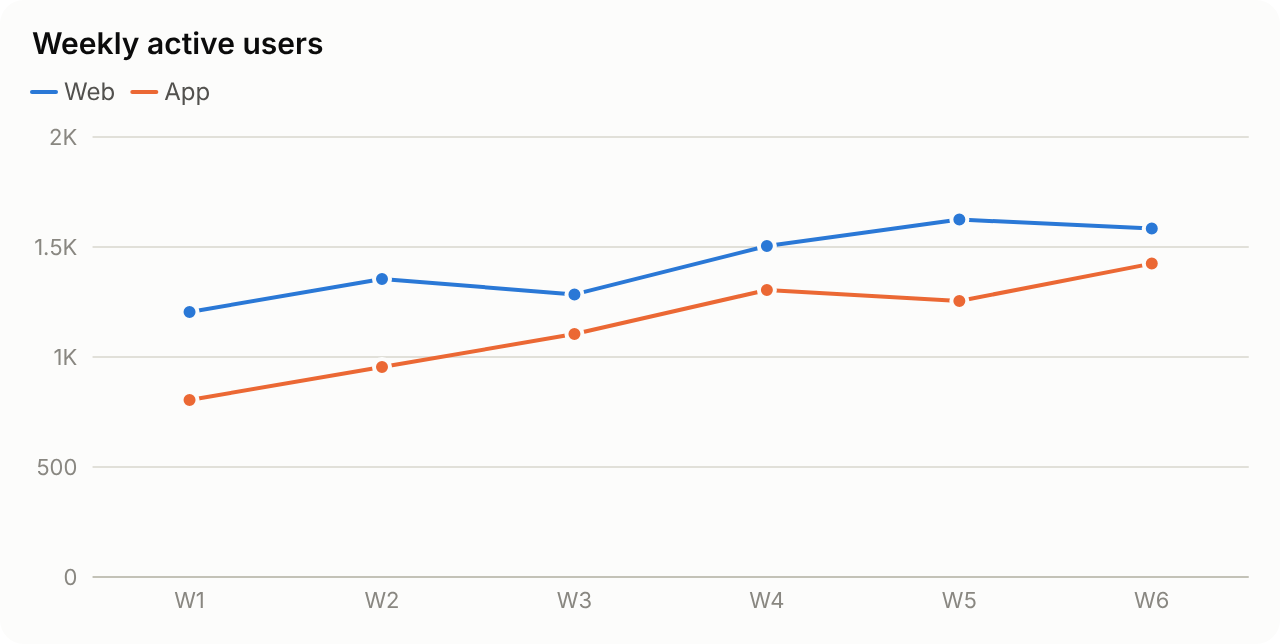
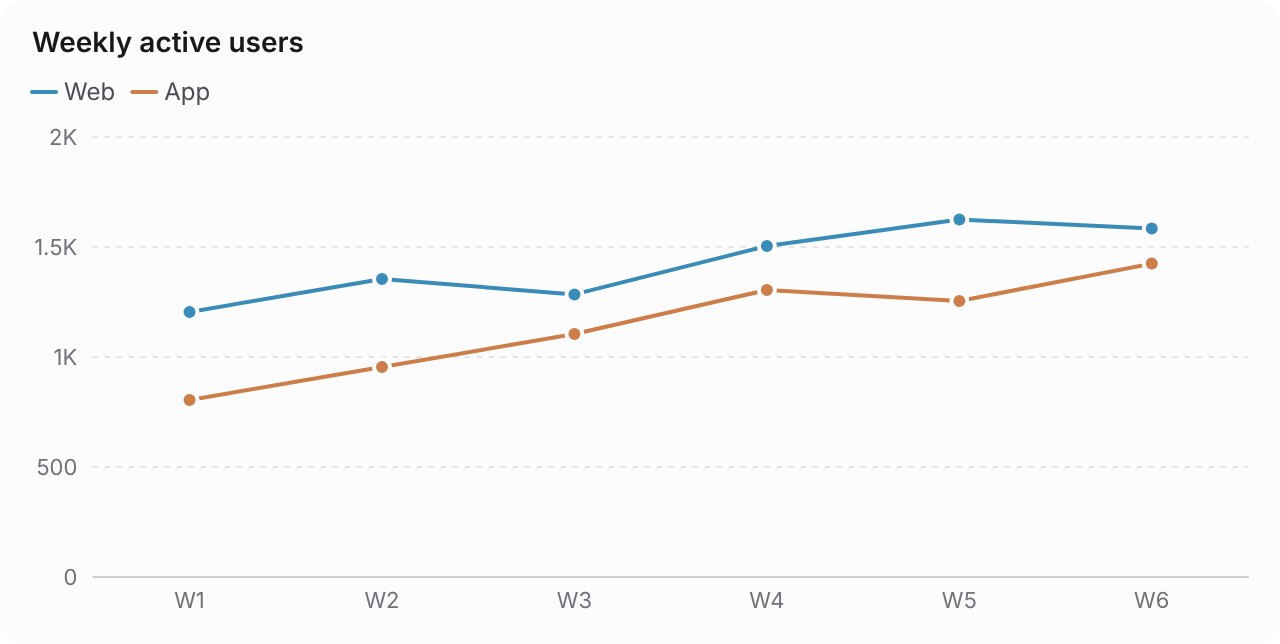
feat: 見た目を Shiki に寄せる（0.3.0）
- 系列の色を四季の色相（冬・秋・夏・紺・春・山吹・青磁・鳶）に、地と文字を青みのニュートラルに変える。
  8 色とも明暗それぞれ、色覚多様性のシミュレーションで隣り合う色の差 ΔE ≥ 8、通常の見え方で ΔE ≥ 15 を確認した
- ダークモードを <html class="dark">（Tailwind・next-themes）にも追従させる。ページの明示を OS の設定より優先する
- 数値カード・流れ図の箱・構成図の層を、塗りつぶしから枠線＋淡い地に変える
- 目盛り線を破線にし、棒グラフの凡例を丸にする。見出しを 14px にする
- フォントを --yui-font で指定できるようにし、既定のフォント指定を日本語向けに広げる

Claude-Session: https://claude.ai/code/session_01Pc6vbAmpqXP4Kfg7mjJKm3

diff --git a/packages/core/src/render/theme.ts b/packages/core/src/render/theme.ts
@@ -1,5 +1,7 @@
 /**
- * 配色。dataviz の検証済み参照パレット（カテゴリ 8 色・明暗それぞれ）を既定にする。
+ * 配色。地と文字は青みのあるニュートラル、系列は四季の色相（冬・秋・夏・紺・春…）を
+ * 彩度を抑えて並べたもの。系列の 8 色は明暗それぞれ、色覚多様性のシミュレーションで
+ * 隣り合う色が区別できること（ΔE ≥ 8）と、通常の見え方での差（ΔE ≥ 15）を検証している。
  * 画面では CSS 変数（`--yui-*`）でホストが上書きでき、書き出しでは色を焼き込む。
  */
 
@@ -28,61 +30,65 @@ export type Token = (typeof TOKENS)[number];
 export type Palette = Record<Token, string>;
 
 export const LIGHT: Palette = {
-  surface: "#fcfcfb",
-  surface2: "#f3f2ef",
-  ink: "#0b0b0b",
-  ink2: "#52514e",
-  muted: "#898781",
-  grid: "#e1e0d9",
-  axis: "#c3c2b7",
-  border: "#dddcd5",
-  accentWash: "#eef4fc",
-  accentLine: "#b7d3f6",
-  s1: "#2a78d6",
-  s2: "#eb6834",
-  s3: "#1baf7a",
-  s4: "#eda100",
-  s5: "#e87ba4",
-  s6: "#008300",
-  s7: "#6250d6",
-  s8: "#e34948",
+  surface: "#fcfcfc",
+  surface2: "#f6f6f8",
+  ink: "#18181b",
+  ink2: "#4c4c54",
+  muted: "#71717a",
+  grid: "#e4e4e7",
+  axis: "#cdcdd2",
+  border: "#dddde1",
+  accentWash: "#eff4fc",
+  accentLine: "#b2bed5",
+  s1: "#398cb8", // 冬（雪空）
+  s2: "#cc7d49", // 秋（紅葉）
+  s3: "#1e7751", // 夏（新緑）
+  s4: "#395490", // 紺
+  s5: "#c1707e", // 春（桜）
+  s6: "#cca754", // 山吹
+  s7: "#2ca59f", // 青磁
+  s8: "#944b39", // 鳶
 };
 
 export const DARK: Palette = {
-  surface: "#1a1a19",
-  surface2: "#262624",
-  ink: "#f0efec",
-  ink2: "#c3c2b7",
-  muted: "#898781",
-  grid: "#2c2c2a",
-  axis: "#383835",
-  border: "#3a3a37",
-  accentWash: "#1d2a3a",
-  accentLine: "#2f4f78",
-  s1: "#3987e5",
-  s2: "#d95926",
-  s3: "#199e70",
-  s4: "#c98500",
-  s5: "#d55181",
-  s6: "#008300",
-  s7: "#9085e9",
-  s8: "#e66767",
+  surface: "#0d0d0f",
+  surface2: "#161619",
+  ink: "#f2f2f2",
+  ink2: "#bdbdc3",
+  muted: "#a1a1a8",
+  grid: "#212124",
+  axis: "#37373b",
+  border: "#2b2b2e",
+  accentWash: "#171d27",
+  accentLine: "#3d4d6b",
+  s1: "#4d9ac8",
+  s2: "#c5804c",
+  s3: "#1a7854",
+  s4: "#3e62a8",
+  s5: "#a75864",
+  s6: "#b48c2c",
+  s7: "#179a94",
+  s8: "#a15744",
 };
 
 export const SERIES: Token[] = ["s1", "s2", "s3", "s4", "s5", "s6", "s7", "s8"];
 
-export const FONT = 'system-ui, -apple-system, "Segoe UI", "Hiragino Sans", "Noto Sans JP", sans-serif';
+export const FONT = 'ui-sans-serif, system-ui, -apple-system, "Segoe UI", "Hiragino Sans", "Hiragino Kaku Gothic ProN", "Noto Sans JP", "Yu Gothic", "Meiryo", sans-serif';
 
 /**
- * 画面用の既定値を CSS で定義する（OS の設定と、ページの data-theme の両方に従う）。
+ * 画面用の既定値を CSS で定義する。明暗は次の順に決める。
+ * - ページが明示していれば従う: `<html class="dark">`（Tailwind・next-themes など）か `<html data-theme="dark">`
+ * - 明示が無ければ OS の設定（prefers-color-scheme）
  * 各色は `var(--yui-<token>, var(--yui-default-<token>))` で参照し、ホストの上書きを優先する。
+ * 文字は `--yui-font` があればそれを使う（埋め込み先と揃えたいとき）。
  */
 export function themeCss(scope: string): string {
   const decl = (p: Palette) => TOKENS.map((t) => `--yui-default-${t}:${p[t]}`).join(";");
+  const explicitLight = `:root:where(:not([data-theme="light"]):not(.light))`;
   return [
-    `${scope}{${decl(LIGHT)}}`,
-    `@media (prefers-color-scheme: dark){:root:where(:not([data-theme="light"])) ${scope}{${decl(DARK)}}}`,
-    `:root[data-theme="dark"] ${scope}{${decl(DARK)}}`,
+    `${scope}{${decl(LIGHT)};font-family:var(--yui-font,${FONT.replace(/"/g, "'")})}`,
+    `@media (prefers-color-scheme: dark){${explicitLight} ${scope}{${decl(DARK)}}}`,
+    `:root:where([data-theme="dark"],.dark) ${scope}{${decl(DARK)}}`,
   ].join("");
 }
 

diff --git a/packages/core/src/render/stack.ts b/packages/core/src/render/stack.ts
@@ -71,19 +71,19 @@ export function layoutStack(ctx: Ctx, f: StackFigure, top: number): number {
       const w = (inner - ROW_GAP * (row.length - 1)) / row.length;
       const ms = row.map((b) => measureBox(ctx, b, w));
       const h = Math.max(...ms.map((m) => m.h));
-      ms.forEach((m, k) => drawBox(ctx, m, ctx.pad + k * (w + ROW_GAP), y, w, h, ti));
+      ms.forEach((m, k) => drawBox(ctx, m, ctx.pad + k * (w + ROW_GAP), y, w, h));
       y += h + (start + perRow < n ? ROW_GAP : 0);
     }
   });
   return y + 12;
 }
 
-function drawBox(ctx: Ctx, m: Measured, x: number, y: number, w: number, h: number, tierIndex: number): void {
+function drawBox(ctx: Ctx, m: Measured, x: number, y: number, w: number, h: number): void {
   const hasChildren = m.box.children.length > 0;
-  const fill: Token = hasChildren ? "accentWash" : tierIndex === 0 ? "surface2" : "surface";
+  const fill: Token = hasChildren ? "accentWash" : "surface2";
   const stroke: Token = hasChildren ? "accentLine" : "border";
   const hint = [m.box.title, m.box.desc, ...m.box.children.map((c) => c.title)].filter(Boolean).join(" / ");
-  ctx.items.push({ t: "rect", x, y, w, h, r: 10, fill, ...(tierIndex === 0 && !hasChildren ? {} : { stroke, strokeWidth: 1 }), hint });
+  ctx.items.push({ t: "rect", x: x + 0.5, y: y + 0.5, w: w - 1, h: h - 1, r: 10, fill, stroke, strokeWidth: 1, hint });
   const cx = x + w / 2;
   let yy = y + 14;
   m.titleLines.forEach((l) => {
@@ -112,7 +112,7 @@ function drawBox(ctx: Ctx, m: Measured, x: number, y: number, w: number, h: numb
     const offset = ((cols - kids.length) * (cw + CHILD_GAP)) / 2;
     kids.forEach((c, k) => {
       const kx = x + 12 + offset + k * (cw + CHILD_GAP);
-      ctx.items.push({ t: "rect", x: kx, y: yy, w: cw, h: ch, r: 8, fill: "surface", hint: c.desc ? `${c.title}: ${c.desc}` : c.title });
+      ctx.items.push({ t: "rect", x: kx, y: yy, w: cw, h: ch, r: 8, fill: "surface", stroke: "border", strokeWidth: 1, hint: c.desc ? `${c.title}: ${c.desc}` : c.title });
       let ty = yy + 9 + 13;
       lines[k]!.forEach((l) => {
         ctx.items.push({ t: "text", x: kx + cw / 2, y: ty, text: l, size: 13, fill: "ink", anchor: "middle" });

diff --git a/packages/core/test/render.test.ts b/packages/core/test/render.test.ts
@@ -6,6 +6,7 @@ import { parseBlock, type Figure } from "../src/index.js";
 import { YuiBlock, YuiFigure, isYuiLanguage } from "../src/react/index.js";
 import { estimate } from "../src/render/measure.js";
 import { layout, renderSVG } from "../src/svg.js";
+import { DARK, LIGHT } from "../src/render/theme.js";
 
 // 評価の課題の正解（141 件中 121 件に図がある）をそのまま描画の検査に使う
 const golds: [string, Figure][] = readFileSync(new URL("../../../eval/tasks/tasks.jsonl", import.meta.url), "utf8")
@@ -67,8 +68,15 @@ describe("SVG", () => {
     expect(renderSVG(f)).toContain("var(--yui-s1, var(--yui-default-s1))");
     const baked = renderSVG(f, { theme: "light" });
     expect(baked).not.toContain("var(");
-    expect(baked).toContain('fill="#2a78d6"');
+    expect(baked).toContain(`fill="${LIGHT.s1}"`);
     expect(baked).toMatch(/^<svg [^>]*width="\d+" height="\d+"/);
+  });
+
+  it("ページの明示（class=\"dark\" / data-theme）を OS の設定より優先する", () => {
+    const css = renderSVG(f).match(/<style>([^<]*)<\/style>/)![1]!;
+    expect(css).toContain(':root:where([data-theme="dark"],.dark)');
+    expect(css).toContain(':root:where(:not([data-theme="light"]):not(.light))');
+    expect(css).toContain("font-family:var(--yui-font,");
   });
 
   it("読み上げ用に、表にした内容を desc に入れる", () => {
@@ -97,7 +105,7 @@ describe("React", () => {
   });
 
   it("YuiFigure とコードブロックの言語名の判定", () => {
-    expect(renderToStaticMarkup(createElement(YuiFigure, { figure: fig("stat x\n売上 | 3,200万円\n"), theme: "dark", width: 320 }))).toContain('fill:#262624');
+    expect(renderToStaticMarkup(createElement(YuiFigure, { figure: fig("stat x\n売上 | 3,200万円\n"), theme: "dark", width: 320 }))).toContain(`fill:${DARK.surface2}`);
     expect(isYuiLanguage("language-ui")).toBe(true);
     expect(isYuiLanguage("hljs language-yui")).toBe(true);
     expect(isYuiLanguage("language-uix")).toBe(false);

diff --git a/packages/core/src/render/stat.ts b/packages/core/src/render/stat.ts
@@ -1,4 +1,4 @@
-/** stat: 数値カードを格子に並べる。値は大きく、項目名と補足は控えめに。 */
+/** stat: 数値カードを格子に並べる。枠線と淡い地のカードに、値は大きく、項目名と補足は控えめに。 */
 
 import type { StatFigure } from "../ir.js";
 import { BODY_SIZE, type Ctx } from "./frame.js";
@@ -29,8 +29,8 @@ export function layoutStat(ctx: Ctx, f: StatFigure, top: number): number {
     const x = ctx.pad + c * (cardW + GAP);
     const y = top + r * (cardH + GAP);
     const refs = it.refs.length ? ` ${it.refs.map((n) => `[${n}]`).join("")}` : "";
-    ctx.items.push({ t: "rect", x, y, w: cardW, h: cardH, r: 8, fill: "surface2", hint: `${it.label}: ${it.value}${it.sub ? `（${it.sub}）` : ""}` });
-    ctx.items.push({ t: "text", x: x + pad, y: y + pad + 12, text: fit(it.label + refs, cardW - pad * 2, BODY_SIZE, ctx.measure), size: BODY_SIZE, fill: "ink2" });
+    ctx.items.push({ t: "rect", x: x + 0.5, y: y + 0.5, w: cardW - 1, h: cardH - 1, r: 12, fill: "surface2", stroke: "border", strokeWidth: 1, hint: `${it.label}: ${it.value}${it.sub ? `（${it.sub}）` : ""}` });
+    ctx.items.push({ t: "text", x: x + pad, y: y + pad + 12, text: fit(it.label + refs, cardW - pad * 2, BODY_SIZE, ctx.measure, 600), size: BODY_SIZE, weight: 600, fill: "muted" });
     const vy = y + pad + 14 + 8 + valueSize * 0.85;
     ctx.items.push({ t: "text", x: x + pad, y: vy, text: fit(it.value, cardW - pad * 2, valueSize, ctx.measure, 600), size: valueSize, weight: 600, fill: "ink" });
     subLines[i]!.forEach((l, k) => ctx.items.push({ t: "text", x: x + pad, y: vy + valueSize * 0.15 + 6 + 12 + k * 16, text: l, size: BODY_SIZE, fill: "muted" }));

diff --git a/packages/core/src/render/chart.ts b/packages/core/src/render/chart.ts
@@ -14,6 +14,8 @@ import { SERIES } from "./theme.js";
 const PLOT_HEIGHT = 220;
 const MAX_BAR = 24;
 const GAP = 2;
+/** 目盛り線は細かい破線にして、データより目立たせない（基線は実線）。 */
+const GRID_DASH = "2 4";
 
 function seriesNames(f: ChartFigure): string[] {
   return f.columns.slice(1);
@@ -78,7 +80,7 @@ function vertical(ctx: Ctx, f: ChartFigure, top: number): number {
   // 目盛り線と基線
   ticks.forEach((t, i) => {
     const yy = Math.round(yOf(t)) + 0.5;
-    ctx.items.push({ t: "path", d: `M${left},${yy}H${right}`, stroke: t === 0 ? "axis" : "grid", strokeWidth: 1 });
+    ctx.items.push({ t: "path", d: `M${left},${yy}H${right}`, stroke: t === 0 ? "axis" : "grid", strokeWidth: 1, ...(t === 0 ? {} : { dash: GRID_DASH }) });
     ctx.items.push({ t: "text", x: left - 8, y: yy + 4, text: tickLabels[i]!, size: SMALL_SIZE, fill: "muted", anchor: "end", tabular: true });
   });
 
@@ -207,7 +209,7 @@ function horizontalBars(ctx: Ctx, f: ChartFigure, top: number): number {
 
   ticks.forEach((t) => {
     const xx = Math.round(xOf(t)) + 0.5;
-    ctx.items.push({ t: "path", d: `M${xx},${plotTop}V${plotBottom}`, stroke: t === 0 ? "axis" : "grid", strokeWidth: 1 });
+    ctx.items.push({ t: "path", d: `M${xx},${plotTop}V${plotBottom}`, stroke: t === 0 ? "axis" : "grid", strokeWidth: 1, ...(t === 0 ? {} : { dash: GRID_DASH }) });
     ctx.items.push({ t: "text", x: xx, y: plotBottom + 14, text: formatTick(t, ctx.locale), size: SMALL_SIZE, fill: "muted", anchor: "middle", tabular: true });
   });
 

diff --git a/packages/core/src/render/frame.ts b/packages/core/src/render/frame.ts
@@ -41,7 +41,7 @@ export function makeCtx(opts: LayoutOptions): Ctx {
   return { width, pad: width < 400 ? 12 : 16, locale, labels, measure: opts.measure ?? estimate, items: [] };
 }
 
-export const TITLE_SIZE = 15;
+export const TITLE_SIZE = 14;
 export const BODY_SIZE = 12;
 export const SMALL_SIZE = 11;
 
@@ -68,7 +68,7 @@ export function drawLegend(ctx: Ctx, names: string[], y: number, mark: "box" | "
     }
     const cy = y + 8 + row * 20;
     const token = SERIES[i % SERIES.length]!;
-    if (mark === "box") ctx.items.push({ t: "rect", x, y: cy - 5, w: 10, h: 10, r: 2, fill: token });
+    if (mark === "box") ctx.items.push({ t: "circle", cx: x + 5, cy, r: 4, fill: token });
     else ctx.items.push({ t: "path", d: `M${x},${cy}H${x + 12}`, stroke: token, strokeWidth: 2 });
     ctx.items.push({ t: "text", x: x + 16, y: cy + 4, text: label, size: BODY_SIZE, fill: "ink2" });
     x += w;

diff --git a/packages/core/src/render/flow.ts b/packages/core/src/render/flow.ts
@@ -259,7 +259,7 @@ function layoutOnce(ctx: Ctx, f: FlowFigure, dir: "TB" | "LR"): { items: Ctx["it
     if (b.shape === "decision") {
       items.push({ t: "path", d: `M${cx},${y}L${x + b.w},${cy}L${cx},${y + b.h}L${x},${cy}Z`, fill: "accentWash", stroke: "accentLine", strokeWidth: 1, hint });
     } else {
-      items.push({ t: "rect", x, y, w: b.w, h: b.h, r: b.shape === "terminal" ? b.h / 2 : 8, fill: "surface2", hint });
+      items.push({ t: "rect", x: x + 0.5, y: y + 0.5, w: b.w - 1, h: b.h - 1, r: b.shape === "terminal" ? b.h / 2 : 8, fill: "surface2", stroke: "border", strokeWidth: 1, hint });
     }
     const y0 = cy - ((b.lines.length - 1) * LINE_H) / 2 + NODE_SIZE * 0.35;
     b.lines.forEach((l, k) => items.push({ t: "text", x: cx, y: y0 + k * LINE_H, text: l, size: NODE_SIZE, fill: "ink", anchor: "middle" }));

diff --git a/scripts/readme-images.ts b/scripts/readme-images.ts
@@ -106,7 +106,7 @@ for (const lang of ["en", "ja"] as const) {
     const r = parseBlock(src, { final: true });
     if (!r.figure) throw new Error(`${lang}/${kind}: ${JSON.stringify(r.diagnostics)}`);
     const svg = renderSVG(r.figure, { width: 640, locale: lang === "ja" ? "ja-JP" : "en-US" });
-    await page.setContent(`<!doctype html><meta charset="utf-8"><body style="margin:0;padding:12px;background:#fff"><div id="f" style="width:640px;background:#fcfcfb;border-radius:12px">${svg}</div>`);
+    await page.setContent(`<!doctype html><meta charset="utf-8"><body style="margin:0;padding:12px;background:#fff"><div id="f" style="width:640px;background:#fcfcfc;border-radius:12px">${svg}</div>`);
     await page.locator("#f").screenshot({ path: join(out, `${lang}-${kind}.png`) });
   }
 }

diff --git a/docs/spec.md b/docs/spec.md
@@ -198,7 +198,7 @@ note: 公開資料を基にした論理構成図。
 
 - 配置・配色・目盛り・ラベルの間引きはレンダラーが決める。記法に見た目の指定は持たせない。
 - 棒グラフは行が多い（15 行以上）か項目名が長いと横向きにする。流れ図は `dir: LR` でも幅に収まらなければ縦向きにする。流れ図の分岐（出る辺が 2 本以上）はひし形、ループは脇を回す。構成図の横並びは 1 つ 140px を下回るなら折り返す。
-- 画面用（`theme: "auto"`）は CSS 変数で色を参照し、OS とページの明暗に追従する。書き出し用（`"light"` / `"dark"`）は色と寸法を焼き込む。どちらも同じレイアウトから作る。
+- 画面用（`theme: "auto"`）は CSS 変数で色を参照し、明暗はページの明示（`<html class="dark">`・`data-theme`）を優先し、無ければ OS の設定に追従する。書き出し用（`"light"` / `"dark"`）は色と寸法を焼き込む。どちらも同じレイアウトから作る。
 - 各図の `<desc>` に、テキスト化（§10 の toText）した内容を入れる（読み上げ・色に頼らない確認のため）。
 - 文字幅は既定で文字種ごとの表から見積もり、どの環境でも同じ配置にする（`measure` で差し替え可能）。
 

diff --git a/README.ja.md b/README.ja.md
@@ -140,7 +140,7 @@ renderSVG(figure, { theme: "light", width: 720 }); // 書き出し用: 色と寸
 toText(figure);                                    // Yui 非対応の場所向けの表・箇条書き
 ```
 
-描画は 1 本のレイアウトから SVG と React の両方を作るので、画面と書き出しの見た目がずれません。配色は色覚多様性に配慮して検証済みの既定パレット（明暗それぞれ）で、`--yui-s1`〜`--yui-s8`・`--yui-ink` などの CSS 変数で差し替えられます。
+描画は 1 本のレイアウトから SVG と React の両方を作るので、画面と書き出しの見た目がずれません。既定の見た目は控えめで（枠線のカード・破線の目盛り・彩度を抑えた四季の色）、系列の色は色覚多様性のシミュレーションで明暗それぞれ検証しています。ダークモードは `<html class="dark">` か `data-theme` に、無ければ OS の設定に従います。`--yui-s1`〜`--yui-s8`・`--yui-ink`・`--yui-font` などの CSS 変数で差し替えられます。
 
 ## 小さなモデルで書けるか
 

diff --git a/packages/core/README.md b/packages/core/README.md
@@ -63,7 +63,9 @@ The same layout drives both outputs, so what you export is what you saw. Every S
 ## Theming
 
 Colors are CSS custom properties: `--yui-s1` … `--yui-s8` (series), `--yui-ink`, `--yui-ink2`, `--yui-muted`, `--yui-grid`, `--yui-axis`, `--yui-surface`, `--yui-surface2`, `--yui-border`, `--yui-accentWash`, `--yui-accentLine`.
-Set them on any ancestor to match your design system. The defaults are a colorblind-validated palette with separate light and dark steps.
+Set them on any ancestor to match your design system; `--yui-font` sets the typeface. The defaults are muted, seasonal hues on cool neutrals, validated for color-vision deficiencies with separate light and dark steps.
+
+In `auto` mode Yui follows the page first — `<html class="dark">` (Tailwind, next-themes) or `<html data-theme="dark">`, and `light` likewise — and falls back to `prefers-color-scheme`.
 
 ## Parser only
 

diff --git a/README.md b/README.md
@@ -140,7 +140,7 @@ renderSVG(figure, { theme: "light", width: 720 }); // export: colors and size ba
 toText(figure);                                    // plain-Markdown fallback (tables / lists)
 ```
 
-One layout drives both SVG and React output, so exports look exactly like the screen. The default palette is colorblind-validated in both light and dark; override it with CSS variables (`--yui-s1` … `--yui-s8`, `--yui-ink`, …).
+One layout drives both SVG and React output, so exports look exactly like the screen. The default look is quiet — outlined cards, dashed grid lines, muted seasonal hues — and the palette is validated for color-vision deficiencies in both light and dark. Dark mode follows `<html class="dark">` or `data-theme`, then the OS. Override anything with CSS variables (`--yui-s1` … `--yui-s8`, `--yui-ink`, `--yui-font`, …).
 
 ## Does it work with small models?
 
